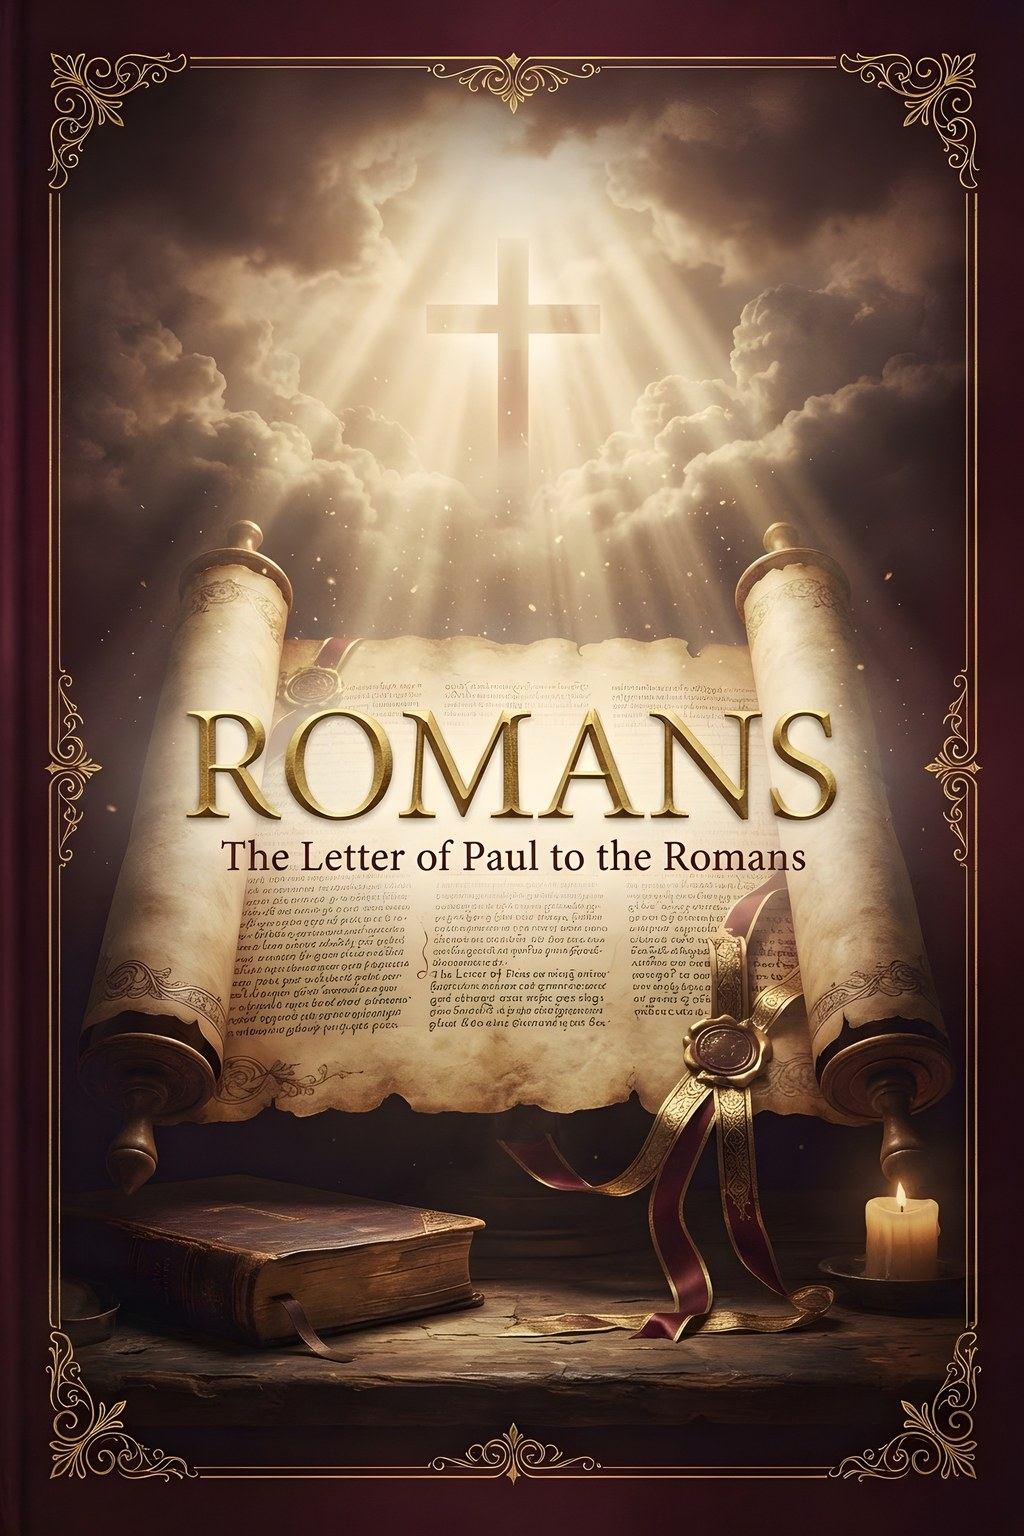
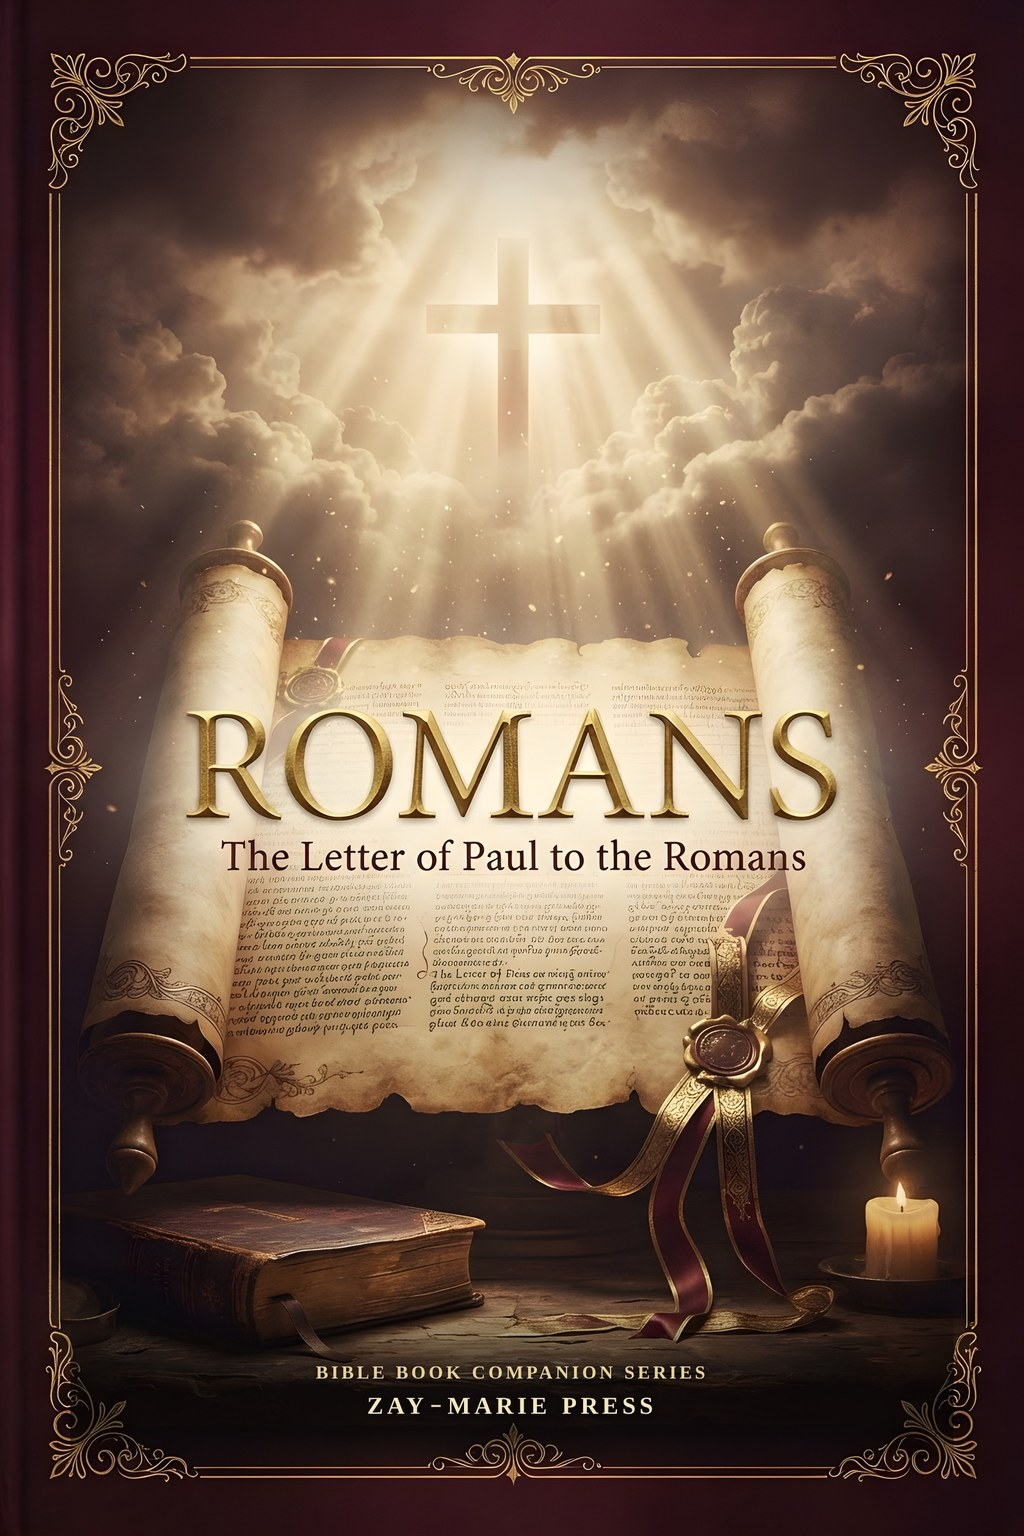
Romans cover: add Bible Book Companion Series / Zay-Marie Press line at the bottom
Claude-Session: https://claude.ai/code/session_018j76NSVhrQUEEpsFNCj1rU

Changed region(s): [[0.0625, 0.8438, 0.8125, 0.9688], [0.8438, 0.875, 0.9375, 0.9375]]

diff --git a/build-tools/packets/apply_cover_art_fullbleed.py b/build-tools/packets/apply_cover_art_fullbleed.py
@@ -8,6 +8,7 @@ from PIL import Image
 from playwright.sync_api import sync_playwright
 sys.path.insert(0, str(Path(__file__).resolve().parent))
 asis=set(sys.argv[sys.argv.index('--asis')+1].split(',')) if '--asis' in sys.argv else set()
+foot=set(sys.argv[sys.argv.index('--footer')+1].split(',')) if '--footer' in sys.argv else set()  # lettered/framed covers: add only the bottom series line, on the ledge inside the frame
 def overlay(base, slug, out, pw):
     m=importlib.import_module('content_'+slug.replace('-','')); fs=min(150,int(1250/(len(m.BOOK)*0.82)))
     title=re.sub(r'^(\d)',r'<span style="font-family:Bitstream Charter,Caladea,serif">\1</span>',m.BOOK)
@@ -26,6 +27,17 @@ h1{{font-size:{fs}px;line-height:1.04;font-weight:700;letter-spacing:.08em;text-
     pg.screenshot(path=str(out.with_suffix('.png'))); pg.close()
     Image.open(out.with_suffix('.png')).convert('RGB').save(out,quality=93)
     h.unlink(); out.with_suffix('.png').unlink()
+def footer(base,out,br):
+    html=f"""<meta charset=utf-8><style>*{{margin:0}}body{{width:1600px;height:2400px;position:relative;overflow:hidden;font-family:'GFS Baskerville','Libre Baskerville',Georgia,serif;text-align:center}}
+.bg{{position:absolute;inset:0;background:url('{base.as_uri()}') center/100% 100%}}
+.g{{position:absolute;left:110px;right:110px;top:2020px;height:270px;background:linear-gradient(180deg,rgba(8,6,6,0) 0%,rgba(8,6,6,.62) 45%,rgba(8,6,6,.62) 80%,rgba(8,6,6,0) 100%)}}
+.b{{position:absolute;left:0;right:0;top:2128px;text-transform:uppercase;font-weight:700}}
+.b1{{font-size:29px;letter-spacing:.16em;color:#e9d29a;text-shadow:0 2px 8px rgba(0,0,0,.9)}}.b2{{font-size:38px;letter-spacing:.16em;color:#f4e6bf;margin-top:12px;text-shadow:0 2px 8px rgba(0,0,0,.9)}}</style>
+<div class=bg></div><div class=g></div><div class=b><div class=b1>Bible Book Companion Series</div><div class=b2>Zay-Marie Press</div></div>"""
+    h=out.with_suffix('.html'); h.write_text(html)
+    pg=br.new_page(viewport={'width':1600,'height':2400}); pg.goto(h.as_uri()); pg.wait_for_timeout(400)
+    pg.screenshot(path=str(out.with_suffix('.png'))); pg.close()
+    Image.open(out.with_suffix('.png')).convert('RGB').save(out,quality=93); h.unlink(); out.with_suffix('.png').unlink()
 ROOT=Path(__file__).resolve().parents[2]; art=Path(sys.argv[1])
 def to23(im):
     w,h=im.size; tw=round(h*2/3)
@@ -37,6 +49,7 @@ for f in sorted(art.glob('*')):
     slug=f.stem; im=to23(Image.open(f).convert('RGB'))
     raw=art/f'{slug}-raw.jpg'; im.resize((1600,2400),Image.LANCZOS).save(raw,quality=95)
     if slug in asis: Image.open(raw).save(art/f'{slug}-1600.jpg',quality=93)
+    elif slug in foot: footer(raw, art/f'{slug}-1600.jpg', br)
     else: overlay(raw, slug, art/f'{slug}-1600.jpg', br)
     w=Image.open(art/f'{slug}-1600.jpg').resize((1024,1536),Image.LANCZOS)
     w.save(ROOT/f'assets/companion-{slug}-cover.jpg',quality=88); w.save(ROOT/f'assets/companion-{slug}-cover.webp',quality=85)
